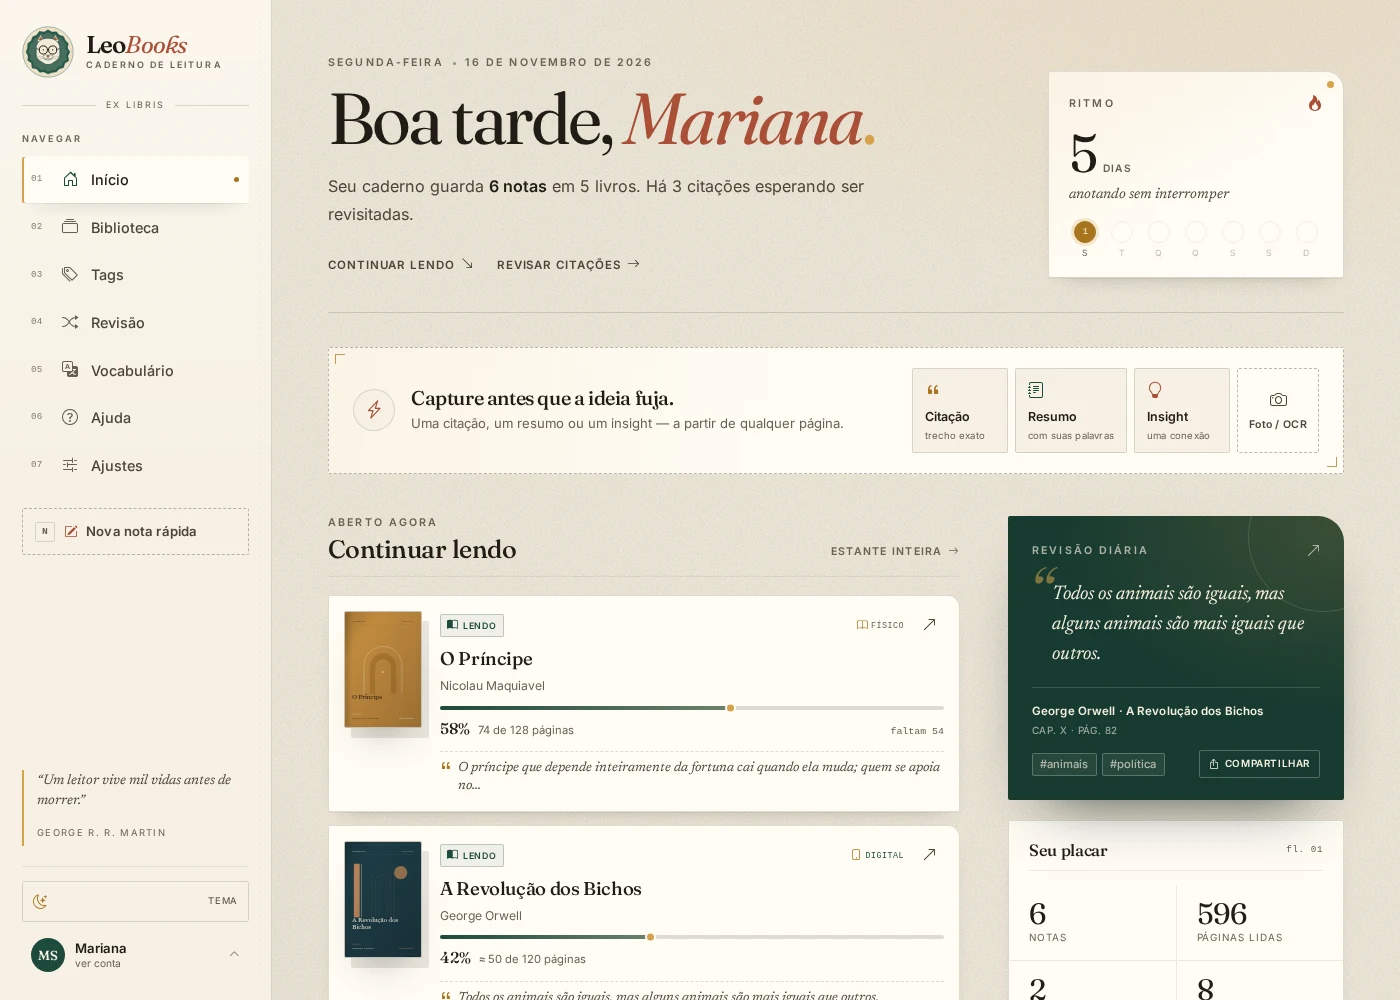
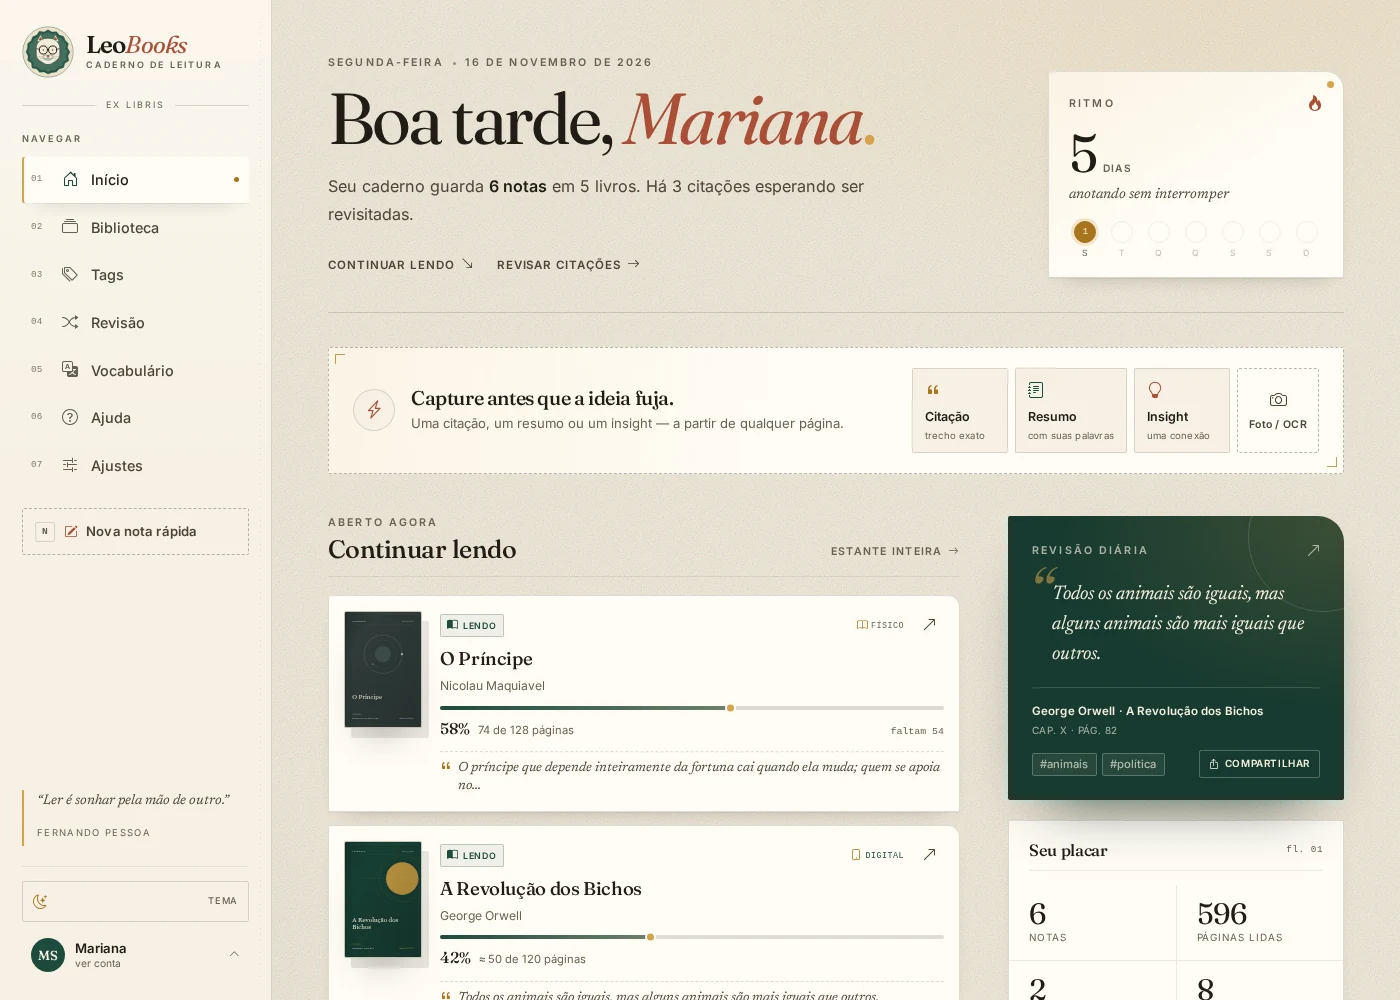
adiciona citações rotativas de autores na lateral
A lateral agora alterna entre dez citações, escolhendo uma frase estável por dia e mantendo autor e leitura em PT-BR.

Changed region(s): [[0.2457, 0.589, 0.3071, 0.744], [0.0307, 0.775, 0.1536, 0.837], [0.2457, 0.837, 0.3071, 0.93]]

diff --git a/templates/partials/_sidebar.html b/templates/partials/_sidebar.html
@@ -74,8 +74,8 @@
   <div class="lb-sidebar__spacer"></div>
 
   <blockquote class="lb-sidebar__quote">
-    <p>“Um leitor vive mil vidas antes de morrer.”</p>
-    <cite>George R. R. Martin</cite>
+    <p>“{{ sidebar_quote.text }}”</p>
+    <cite>{{ sidebar_quote.author }}</cite>
   </blockquote>
 
   <div class="lb-sidebar__tools">

diff --git a/helpers.py b/helpers.py
@@ -350,6 +350,45 @@ def week_activity(notes) -> list[dict]:
     return week_activity_dates([note.created_at for note in notes])
 
 
+SIDEBAR_QUOTES = (
+    ("Um leitor vive mil vidas antes de morrer.", "George R. R. Martin"),
+    (
+        "A leitura de todos os bons livros é uma conversa com os melhores espíritos.",
+        "René Descartes",
+    ),
+    (
+        "A leitura é para a mente o que o exercício é para o corpo.",
+        "Joseph Addison",
+    ),
+    ("A leitura engrandece a alma.", "Voltaire"),
+    (
+        "Os livros são abelhas que levam o pólen de uma inteligência a outra.",
+        "James Russell Lowell",
+    ),
+    (
+        "Não há fragata como um livro para nos levar a terras distantes.",
+        "Emily Dickinson",
+    ),
+    ("Ler é sonhar pela mão de outro.", "Fernando Pessoa"),
+    ("Um livro é um sonho que você segura nas mãos.", "Neil Gaiman"),
+    (
+        "Sempre imaginei que o paraíso fosse uma espécie de biblioteca.",
+        "Jorge Luis Borges",
+    ),
+    (
+        "Ler é beber e comer. O espírito que não lê emagrece como o corpo que não come.",
+        "Victor Hugo",
+    ),
+)
+
+
+def sidebar_quote(day: date | None = None) -> dict[str, str]:
+    """Escolhe uma citação estável por dia para a lateral."""
+    chosen_day = day or date.today()
+    text, author = SIDEBAR_QUOTES[chosen_day.toordinal() % len(SIDEBAR_QUOTES)]
+    return {"text": text, "author": author}
+
+
 def register_template_helpers(app) -> None:
     app.jinja_env.filters.update(
         {

diff --git a/tests/test_forms.py b/tests/test_forms.py
@@ -25,3 +25,18 @@ def test_ptbr_translation_covers_length_and_number_defaults():
         PTBRForm._em_portugues("Number must be between 0 and 100.")
         == "Informe um número entre 0 e 100."
     )
+
+
+def test_sidebar_quotes_rotate_and_are_rendered(auth_client):
+    from datetime import date
+
+    from helpers import SIDEBAR_QUOTES, sidebar_quote
+
+    assert len(SIDEBAR_QUOTES) >= 8
+    first = sidebar_quote(date(2026, 1, 1))
+    second = sidebar_quote(date(2026, 1, 2))
+    assert first["author"] != second["author"] or first["text"] != second["text"]
+    page = auth_client.get("/").get_data(as_text=True)
+    current = sidebar_quote()
+    assert current["text"] in page
+    assert current["author"] in page

diff --git a/app.py b/app.py
@@ -18,6 +18,7 @@ from helpers import (
     current_user,
     greeting_for_now,
     register_template_helpers,
+    sidebar_quote,
     weekday_long,
 )
 from models import BOOK_STATUSES, NOTE_TYPES, Book, Tag, db
@@ -92,6 +93,7 @@ def create_app(overrides: dict | None = None) -> Flask:
             "greeting": greeting_for_now(),
             "today": date.today(),
             "weekday": weekday_long(),
+            "sidebar_quote": sidebar_quote(),
             "app_name": "LeoBooks",
             "quick_note_form": None,
             "quick_vocabulary_form": None,

diff --git a/AGENTS.md b/AGENTS.md
@@ -55,7 +55,7 @@ ser validada **localmente e no Docker** antes de ser considerada concluída.
 .venv/bin/pytest -q
 ```
 
-A suíte atual tem **132 testes**. Não considere a mudança pronta se houver
+A suíte atual tem **133 testes**. Não considere a mudança pronta se houver
 falhas.
 
 **Além dos testes, suba o próprio projeto e veja a mudança acontecendo.** Use uma

diff --git a/README.md b/README.md
@@ -557,7 +557,7 @@ LEOBOOKS_IMAGE_TAG=1.0.8 docker compose push
 .venv/bin/pytest -q
 ```
 
-Estado atual: **132 testes passando** — rotas, CSRF, isolamento entre contas,
+Estado atual: **133 testes passando** — rotas, CSRF, isolamento entre contas,
 sanitização de Markdown, uploads, busca de capas, backup, tutorial, cache,
 ordenação por uso e exclusão de conta.
 

diff --git a/CHANGELOG.md b/CHANGELOG.md
@@ -2,6 +2,8 @@
 
 ## Não lançado
 
+- A lateral agora alterna citações de diferentes autores, com uma frase
+  estável por dia.
 - Mensagens padrão de validação do WTForms e do navegador foram traduzidas
   para português do Brasil.
 - A criação de palavra agora abre em popup na própria página, com o mesmo
